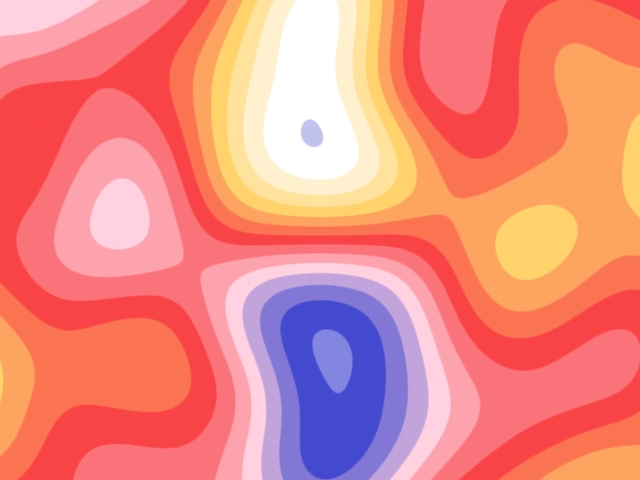
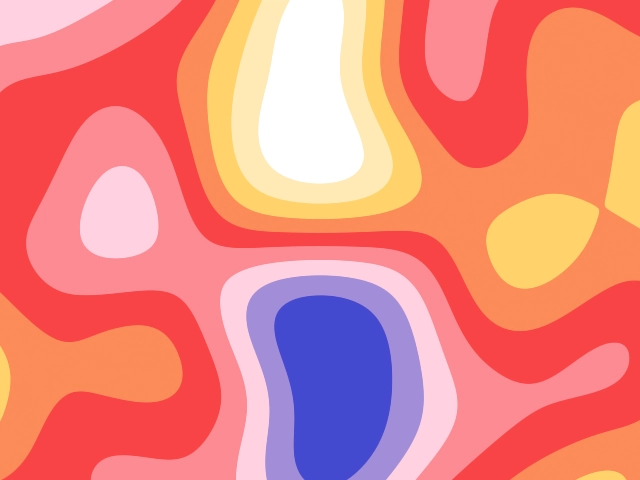
preset and thumbs tweaks

diff --git a/docs/src/app/home-shaders.ts b/docs/src/app/home-shaders.ts
@@ -135,7 +135,7 @@ export const homeShaders = [
     url: '/dot-grid',
     ShaderComponent: DotGrid,
     image: dotGridImg,
-    shaderConfig: { ...dotGridPresets[0].params, speed: 0 },
+    shaderConfig: { ...dotGridPresets[0].params, speed: 0, gapX: 24, gapY: 24, size: 1.5 },
   },
   {
     name: 'warp',
@@ -163,7 +163,7 @@ export const homeShaders = [
     url: '/waves',
     ShaderComponent: Waves,
     image: wavesImg,
-    shaderConfig: { ...wavesPresets[0].params, scale: 0.7 },
+    shaderConfig: { ...wavesPresets[0].params, speed: 0, scale: 0.55, spacing: 1.2 },
   },
   {
     name: 'neuro noise',
@@ -201,14 +201,14 @@ export const homeShaders = [
     url: '/pulsing-border',
     ShaderComponent: PulsingBorder,
     image: pulsingBorderImg,
-    shaderConfig: { ...pulsingBorderPresets[0].params, scale: 0.6 },
+    shaderConfig: { ...pulsingBorderPresets[0].params },
   },
   {
     name: 'metaballs',
     image: metaballsImg,
     url: '/metaballs',
     ShaderComponent: Metaballs,
-    shaderConfig: { ...metaballsPresets[0].params, scale: 1.1, count: 8, frame: 3400, speed: 2 },
+    shaderConfig: { ...metaballsPresets[0].params, scale: 1, count: 8, frame: 3400, speed: 2 },
   },
   {
     name: 'color panels',

diff --git a/packages/shaders-react/src/shaders/swirl.tsx b/packages/shaders-react/src/shaders/swirl.tsx
@@ -36,16 +36,17 @@ export const openingPreset: SwirlPreset = {
   params: {
     ...defaultObjectSizing,
     offsetX: -0.4,
-    offsetY: 0.86,
-    speed: 0.6,
+    offsetY: 1,
+    speed: 0.5,
     frame: 0,
-    colorBack: '#8b2e5f',
-    colors: ['#ce5d43', '#f7c251', '#f9f871'],
-    bandCount: 3,
+    colorBack: '#ff8b61',
+    colors: ['#fefff0', '#ffd8bd', '#ff8b61'],
+    bandCount: 2,
     twist: 0.3,
     softness: 0,
-    noiseFrequency: 0.5,
+    noiseFrequency: 0,
     noise: 0,
+    scale: 1,
   },
 } as const;
 
@@ -55,10 +56,21 @@ export const jamesBondPreset: SwirlPreset = {
     ...defaultObjectSizing,
     speed: 1,
     frame: 0,
-    colorBack: '#000000',
-    colors: ['#2e2e2e', '#ffffff'],
-    bandCount: 4,
-    twist: 0.4,
+    colorBack: '#E9E7DA',
+    colors: [
+      '#000000',
+      '#000000',
+      '#000000',
+      '#000000',
+      '#000000',
+      '#000000',
+      '#000000',
+      '#000000',
+      '#000000',
+      '#000000',
+    ],
+    bandCount: 5,
+    twist: 0.3,
     softness: 0,
     noiseFrequency: 0.5,
     noise: 0,

diff --git a/packages/shaders-react/src/shaders/waves.tsx b/packages/shaders-react/src/shaders/waves.tsx
@@ -19,13 +19,13 @@ export const defaultPreset: WavesPreset = {
   name: 'Default',
   params: {
     ...defaultPatternSizing,
-    scale: 2,
+    scale: 0.8,
     colorFront: '#ffbb00',
     colorBack: '#000000',
     shape: 0,
     frequency: 0.5,
     amplitude: 0.5,
-    spacing: 1,
+    spacing: 1.2,
     proportion: 0.1,
     softness: 0,
   },

diff --git a/packages/shaders-react/src/shaders/simplex-noise.tsx b/packages/shaders-react/src/shaders/simplex-noise.tsx
@@ -22,7 +22,7 @@ export const defaultPreset: SimplexNoisePreset = {
     speed: 0.5,
     frame: 0,
     colors: ['#4449CF', '#FFD1E0', '#F94446', '#FFD36B', '#FFFFFF'],
-    stepsPerColor: 3,
+    stepsPerColor: 2,
     softness: 0,
   },
 };
